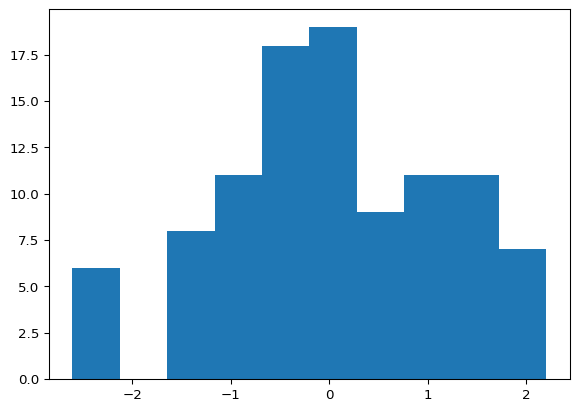
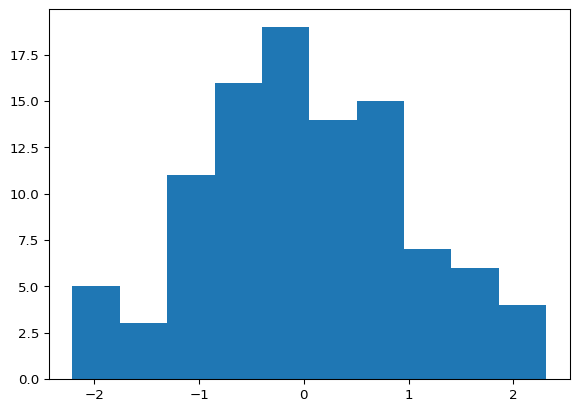
Built site for gh-pages

diff --git a/units/unit1.html b/units/unit1.html
@@ -193,7 +193,7 @@ $$
 <p>This is an example of using qmd as the source document.</p>
 <section id="evaluated-python-code-chunk-with-a-plot" class="level2">
 <h2 class="anchored" data-anchor-id="evaluated-python-code-chunk-with-a-plot">Evaluated Python code chunk, with a plot</h2>
-<div id="76fc8ba6" class="cell" data-execution_count="1">
+<div id="30ba0839" class="cell" data-execution_count="1">
 <details open="" class="code-fold">
 <summary>Code</summary>
 <div class="sourceCode cell-code" id="cb1"><pre class="sourceCode python code-with-copy"><code class="sourceCode python"><span id="cb1-1"><a href="#cb1-1" aria-hidden="true" tabindex="-1"></a><span class="im">import</span> numpy <span class="im">as</span> np</span>
@@ -211,7 +211,7 @@ $$
 </div>
 </div>
 <div class="cell-output cell-output-display" data-execution_count="1">
-<pre><code>np.float64(0.018960822465641666)</code></pre>
+<pre><code>np.float64(0.001365287030764138)</code></pre>
 </div>
 </div>
 </section>
@@ -273,7 +273,7 @@ Tip with Title
 </div>
 <div id="tabset-1-2" class="tab-pane" role="tabpanel" aria-labelledby="tabset-1-2-tab">
 <p>This code is executed.</p>
-<div id="f6f2c390" class="cell" data-execution_count="2">
+<div id="2fed24b6" class="cell" data-execution_count="2">
 <details open="" class="code-fold">
 <summary>Code</summary>
 <div class="sourceCode cell-code" id="cb4"><pre class="sourceCode python code-with-copy"><code class="sourceCode python"><span id="cb4-1"><a href="#cb4-1" aria-hidden="true" tabindex="-1"></a><span class="kw">def</span> fizz_buzz(num):</span>

diff --git a/units/unit3.html b/units/unit3.html
@@ -190,7 +190,7 @@ $$
 <p>This is an example of using qmd as the source document with pdf as one target. I’ve taken out the qmd stuff that doesn’t seem to render to pdf.</p>
 <section id="evaluated-python-code-chunk-with-a-plot" class="level2">
 <h2 class="anchored" data-anchor-id="evaluated-python-code-chunk-with-a-plot">Evaluated Python code chunk, with a plot</h2>
-<div id="b9dfbcfa" class="cell" data-execution_count="1">
+<div id="63a6c230" class="cell" data-execution_count="1">
 <details open="" class="code-fold">
 <summary>Code</summary>
 <div class="sourceCode cell-code" id="cb1"><pre class="sourceCode python code-with-copy"><code class="sourceCode python"><span id="cb1-1"><a href="#cb1-1" aria-hidden="true" tabindex="-1"></a><span class="im">import</span> numpy <span class="im">as</span> np</span>
@@ -208,7 +208,7 @@ $$
 </div>
 </div>
 <div class="cell-output cell-output-display" data-execution_count="1">
-<pre><code>np.float64(0.16706233838271026)</code></pre>
+<pre><code>np.float64(0.17096642366739842)</code></pre>
 </div>
 </div>
 </section>

diff --git a/homework-solutions.html b/homework-solutions.html
@@ -268,7 +268,7 @@ ul.task-list li input[type="checkbox"] {
 <li><strong>Advanced topics:</strong> Statistical learning and optimization theory; bagging and boosting; tree-based models; neural networks; Bayesian modeling; online learning and bandit problems..</li>
 </ul>
 <blockquote class="blockquote">
-<p>Solutions written by Ajay Sharma to <em>theoretical exercises</em> assigned throughout the semester. <em>Computational exercises</em> have <em>not</em> been shown. More to be added.</p>
+<p>Solutions written by Ajay Sharma to <em>theoretical exercises</em> assigned throughout the semester. <em>Computational exercises</em> have <em>not</em> been shown. More to be posted soon.</p>
 </blockquote>
 <ul>
 <li><a href="homework/STAT_154_HW_1_Solutions.pdf">Homework&nbsp;1</a></li>
